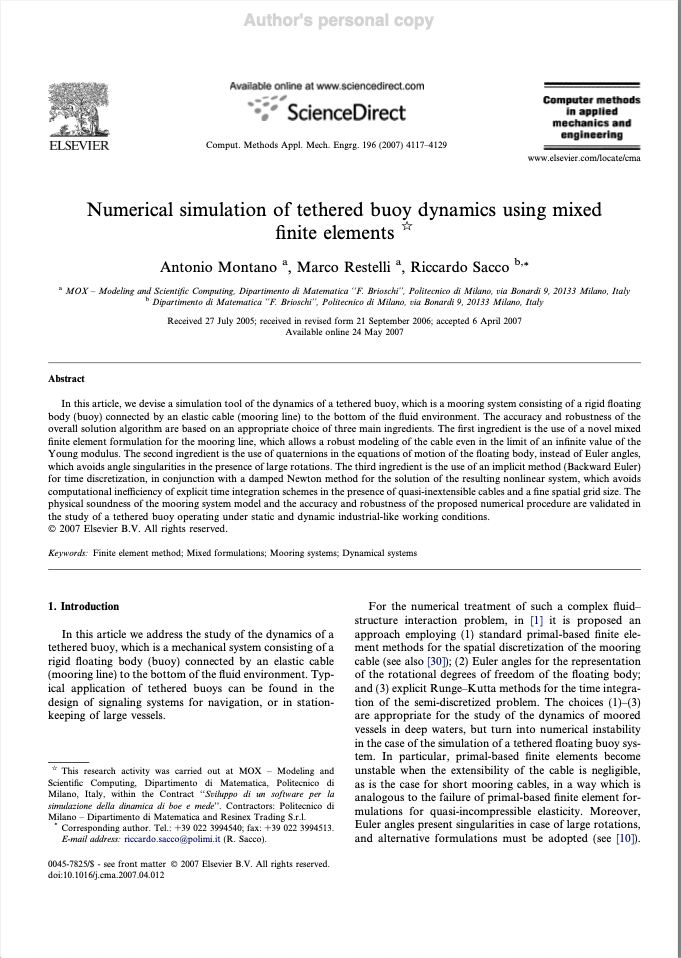
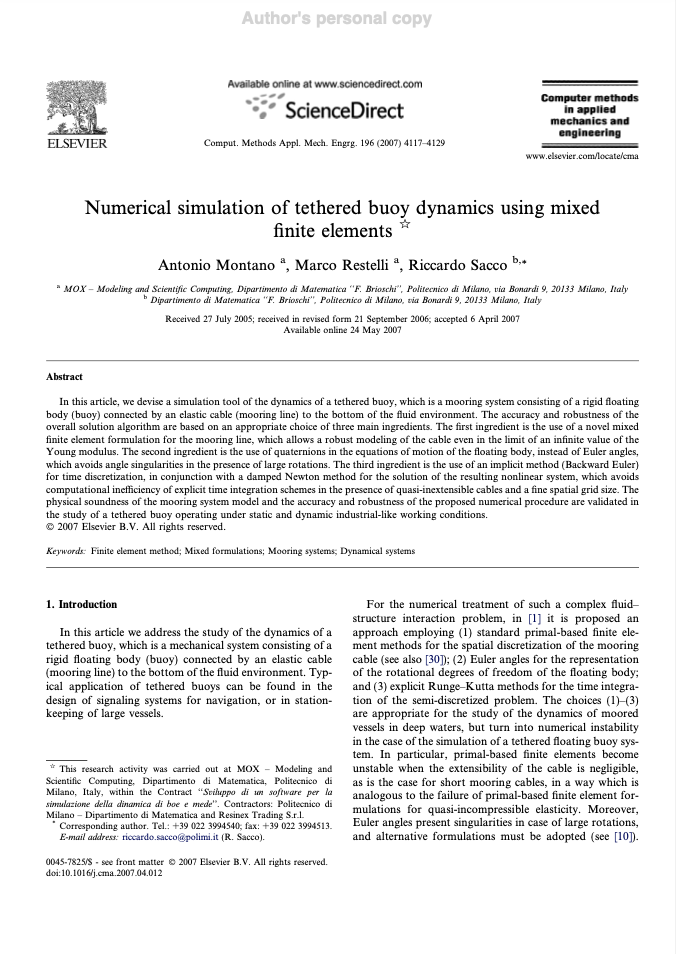
up

diff --git a/docs/posts/tethered-buoy-dynamics/index.html b/docs/posts/tethered-buoy-dynamics/index.html
@@ -79,13 +79,13 @@ ul.task-list li input[type="checkbox"] {
 <meta property="og:description" content="This reflection examines the design and simulation of a tethered buoy system, an enterprise bridging nearly inextensible cables, quaternion-based orientation, and implicit time-stepping. It traces the technical challenges and day-to-day engineering realities of merging advanced finite element concepts with real-world ocean conditions. Through the interplay of mixed methods and iterative solvers, supported by the vibrant research community at MOX, it recounts the milestones, hurdles, and enduring satisfaction that remain vivid even after two decades.">
 <meta property="og:image" content="https://antomon.github.io/posts/tethered-buoy-dynamics/Numerical-simulation-of-tethered-buoy-dynamics.png">
 <meta property="og:site_name" content="Random Bits of Knowledge">
-<meta property="og:image:height" content="958">
-<meta property="og:image:width" content="681">
+<meta property="og:image:height" content="954">
+<meta property="og:image:width" content="676">
 <meta name="twitter:title" content="Simulating Tethered Buoy Dynamics – Random Bits of Knowledge">
 <meta name="twitter:description" content="This reflection examines the design and simulation of a tethered buoy system, an enterprise bridging nearly inextensible cables, quaternion-based orientation, and implicit time-stepping. It traces the technical challenges and day-to-day engineering realities of merging advanced finite element concepts with real-world ocean conditions. Through the interplay of mixed methods and iterative solvers, supported by the vibrant research community at MOX, it recounts the milestones, hurdles, and enduring satisfaction that remain vivid even after two decades.">
 <meta name="twitter:image" content="https://antomon.github.io/posts/tethered-buoy-dynamics/Numerical-simulation-of-tethered-buoy-dynamics.png">
-<meta name="twitter:image-height" content="958">
-<meta name="twitter:image-width" content="681">
+<meta name="twitter:image-height" content="954">
+<meta name="twitter:image-width" content="676">
 <meta name="twitter:card" content="summary_large_image">
 </head>
 
@@ -286,7 +286,7 @@ ul.task-list li input[type="checkbox"] {
 </div><div class="">
 <p><img src="Numerical-simulation-of-tethered-buoy-dynamics.png" class="img-fluid"></p>
 </div></div>
-<p>This project also unified my engineering approach to physics and mathematics in a problem that originated from a company that, to this day, continues to produce buoys. The challenge wasn’t just academic; it was a real-world issue that required scientific rigor to solve. The culmination of our work was published in <strong>Computer Methods in Applied Mechanics and Engineering</strong> under the title <strong><a href="https://doi.org/10.1016/j.cma.2007.04.012">Modeling and Numerical Simulation of Tethered Buoy Dynamics (MOX 66)</a></strong>, co-authored with Marco Restelli and Riccardo Sacco. The publication validated our approach and demonstrated that tackling practical engineering problems with strong theoretical foundations could yield robust and widely applicable solutions.</p>
+<p>This project also unified my engineering approach to physics and mathematics in a problem that originated from a company that, to this day, continues to produce buoys. The challenge wasn’t just academic; it was a real-world issue that required scientific rigor to solve. The culmination of our work was published in <strong>Computer Methods in Applied Mechanics and Engineering</strong> under the title <strong><a href="https://doi.org/10.1016/j.cma.2007.04.012">Modeling and Numerical Simulation of Tethered Buoy Dynamics</a></strong>, co-authored with Marco Restelli and Riccardo Sacco. The publication validated our approach and demonstrated that tackling practical engineering problems with strong theoretical foundations could yield robust and widely applicable solutions.</p>
 </section>
 <section id="looking-back" class="level2">
 <h2 class="anchored" data-anchor-id="looking-back">Looking back</h2>

diff --git a/docs/index.html b/docs/index.html
@@ -327,7 +327,7 @@ window.Quarto = {
 <h2 class="anchored" data-anchor-id="posts">Posts</h2>
 <div id="listing-top" class="quarto-listing quarto-listing-container-grid">
 <div class="list grid quarto-listing-cols-3">
[2 lines of base64/hex data omitted]
 <a href="./posts/tethered-buoy-dynamics/index.html" class="quarto-grid-link">
 <div class="quarto-grid-item card h-100 card-left">
 <p class="card-img-top">
